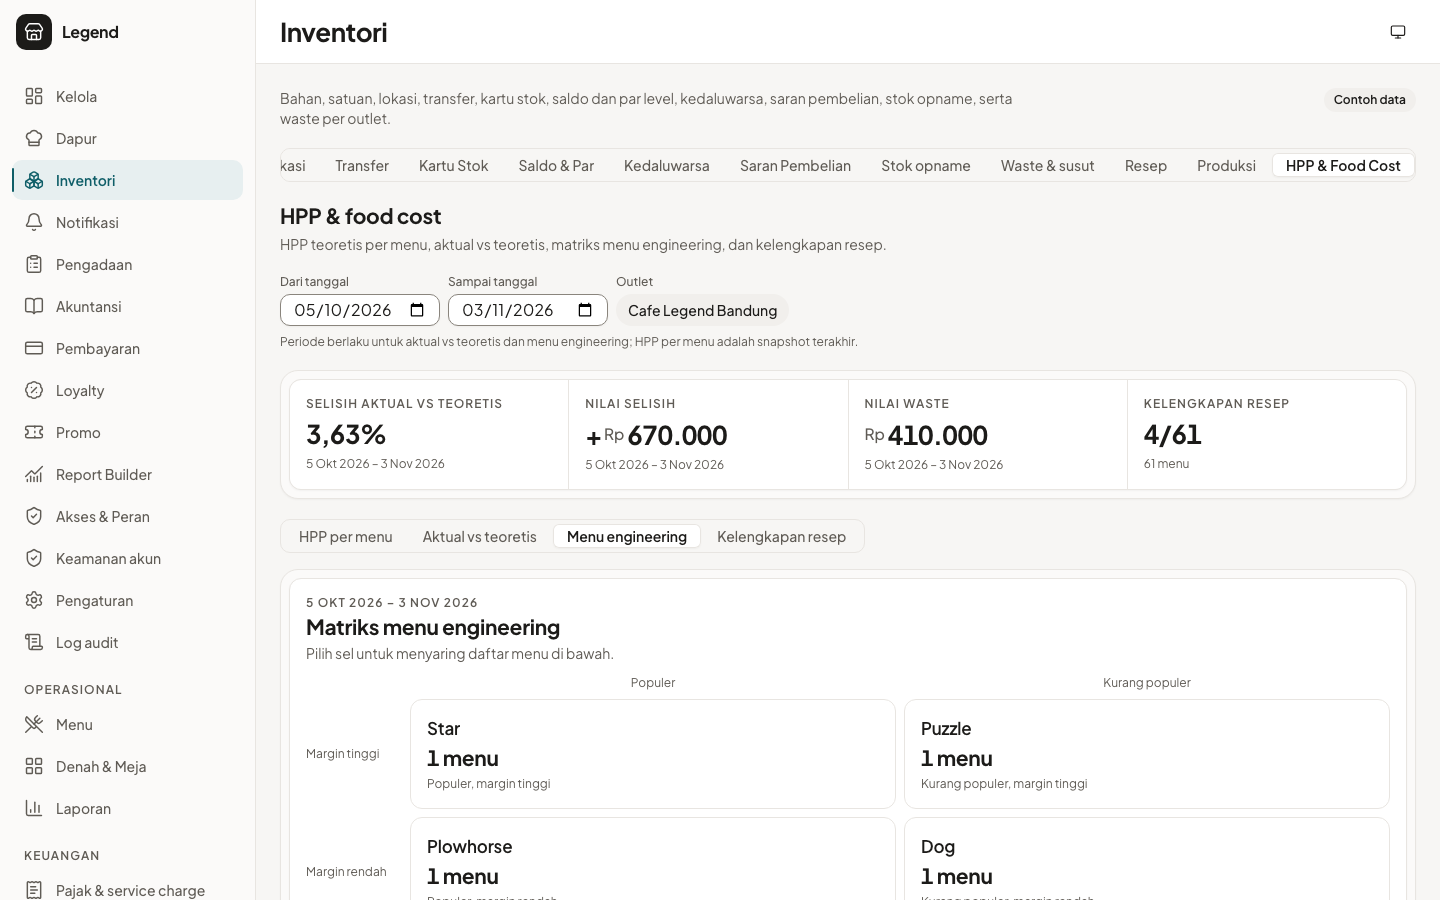
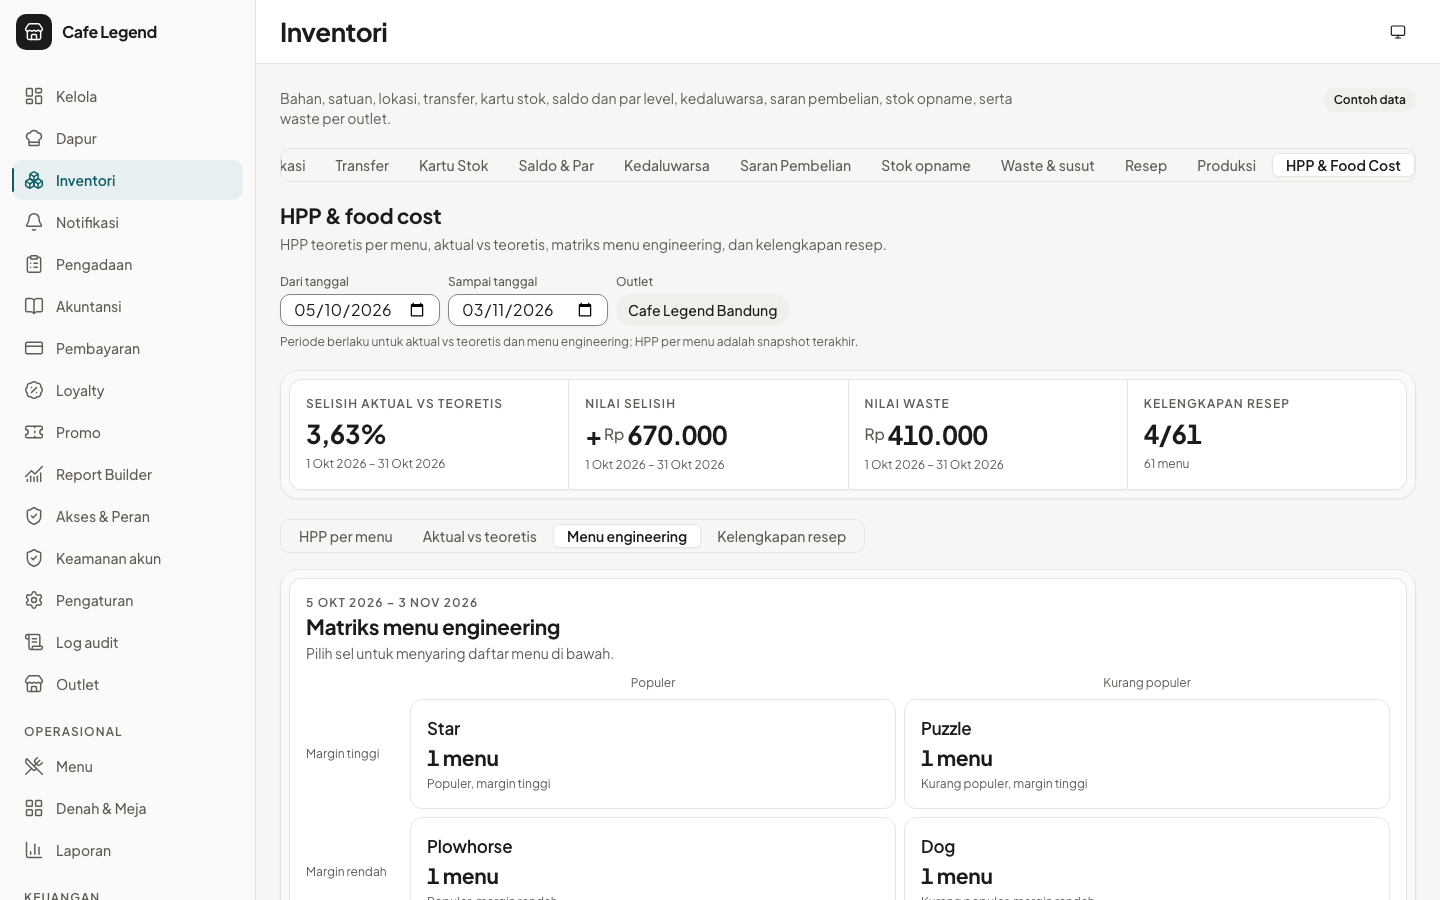
review(inventory): HPP summary dates, chart values, ink matrix selection (legend-5pe)

diff --git a/apps/web/src/features/ws06-inventory/components/hpp-food-cost-tab.tsx b/apps/web/src/features/ws06-inventory/components/hpp-food-cost-tab.tsx
@@ -23,7 +23,8 @@ import {
   TableRow,
 } from "@/components/ui/table";
 import { useFoodCost } from "../hpp-hooks";
-import { periodLabel, type HppPeriod } from "../hpp-lib";
+import { formatRupiah } from "@starter/shared/i18n";
+import { foodCostPeriodLabel, sortFoodCost, type HppPeriod } from "../hpp-lib";
 import { FoodCostChart, type FoodCostBar } from "./hpp-food-cost-chart";
 import { SignedMoney } from "./hpp-signed-money";
 
@@ -32,12 +33,7 @@ export function HppFoodCostTab({ period }: { period: HppPeriod }) {
   const query = useFoodCost(period);
 
   const rows = React.useMemo(
-    () =>
-      [...(query.data?.data ?? [])].sort(
-        (a, b) =>
-          b.fromDate.localeCompare(a.fromDate) ||
-          b.toDate.localeCompare(a.toDate),
-      ),
+    () => sortFoodCost(query.data?.data ?? []),
     [query.data],
   );
 
@@ -66,9 +62,7 @@ export function HppFoodCostTab({ period }: { period: HppPeriod }) {
   }
 
   const latest = rows[0];
-  const latestPeriod = latest
-    ? periodLabel({ fromDate: latest.fromDate, toDate: latest.toDate })
-    : periodLabel(period);
+  const latestPeriod = latest ? foodCostPeriodLabel(latest) : "";
   const bars: FoodCostBar[] = latest
     ? [
         {
@@ -103,6 +97,10 @@ export function HppFoodCostTab({ period }: { period: HppPeriod }) {
             bars={bars}
             ariaLabel={t("inventoryHpp.foodCost.chartAria", {
               period: latestPeriod,
+              theoretical: latest
+                ? formatRupiah(latest.theoreticalCostIdr)
+                : "",
+              actual: latest ? formatRupiah(latest.actualCostIdr) : "",
             })}
           />
         </CardShellBody>
@@ -143,10 +141,7 @@ export function HppFoodCostTab({ period }: { period: HppPeriod }) {
             {rows.map((row) => (
               <TableRow key={`${row.outletId}:${row.fromDate}:${row.toDate}`}>
                 <TableCell className="whitespace-nowrap font-medium">
-                  {periodLabel({
-                    fromDate: row.fromDate,
-                    toDate: row.toDate,
-                  })}
+                  {foodCostPeriodLabel(row)}
                 </TableCell>
                 <TableCell numeric>
                   <Money amount={row.theoreticalCostIdr} />

diff --git a/apps/web/src/features/ws06-inventory/hpp-lib.ts b/apps/web/src/features/ws06-inventory/hpp-lib.ts
@@ -17,6 +17,7 @@ import {
 import { formatNumber } from "@starter/shared/i18n";
 import { cafeLegendMenuFixtures } from "@starter/shared/menu";
 import type {
+  FoodCostComparison,
   MenuCost,
   MenuEngineeringClass,
   MenuEngineeringRow,
@@ -129,6 +130,30 @@ export function sortRecipeCoverage(
   return [...rows].sort((a, b) =>
     menuNameOf(a.menuItemId).localeCompare(menuNameOf(b.menuItemId), "id-ID"),
   );
+}
+
+// ---- Food cost -----------------------------------------------------------
+
+/**
+ * Food-cost comparisons newest first (by start, then end date). The summary
+ * strip and the chart both read the first row, so they always agree.
+ */
+export function sortFoodCost(
+  rows: readonly FoodCostComparison[],
+): FoodCostComparison[] {
+  return [...rows].sort(
+    (a, b) =>
+      b.fromDate.localeCompare(a.fromDate) || b.toDate.localeCompare(a.toDate),
+  );
+}
+
+/**
+ * The label for a comparison row's own period. A row covers the closed range
+ * the server computed, which may differ from the selector window that merely
+ * overlaps it, so figures are always labelled with the row's dates.
+ */
+export function foodCostPeriodLabel(row: FoodCostComparison): string {
+  return periodLabel({ fromDate: row.fromDate, toDate: row.toDate });
 }
 
 // ---- Menu engineering ----------------------------------------------------

diff --git a/apps/web/src/features/ws06-inventory/components/hpp-page.tsx b/apps/web/src/features/ws06-inventory/components/hpp-page.tsx
@@ -22,9 +22,10 @@ import { useFoodCost, useOnlineStatus, useRecipeCoverage } from "../hpp-hooks";
 import {
   coverageCounts,
   defaultPeriod,
+  foodCostPeriodLabel,
   formatBasisPoints,
   HPP_OUTLET_NAME,
-  periodLabel,
+  sortFoodCost,
   type HppPeriod,
 } from "../hpp-lib";
 import { HppCoverageTab } from "./hpp-coverage-tab";
@@ -184,10 +185,12 @@ function HppSummary({
   const failed = foodCost.isError || coverage.isError;
   const error = foodCost.error ?? coverage.error;
   const offline = error instanceof ApiError && error.code === "NETWORK_ERROR";
-  const row = foodCost.data?.data.at(0);
+  // Newest comparison, labelled with its own dates: the selector window only
+  // has to overlap the server's period, so its dates are not the figures'.
+  const row = sortFoodCost(foodCost.data?.data ?? []).at(0);
   const coverageRows = coverage.data?.data ?? [];
   const counts = coverageCounts(coverageRows);
-  const label = periodLabel(period);
+  const label = row ? foodCostPeriodLabel(row) : "";
 
   const retry = () => {
     void foodCost.refetch();

diff --git a/apps/web/src/features/ws06-inventory/components/hpp-engineering-tab.tsx b/apps/web/src/features/ws06-inventory/components/hpp-engineering-tab.tsx
@@ -265,13 +265,15 @@ function MatrixCell({
 }) {
   const t = useT();
   return (
+    // A matrix cell is a filter, so it selects in ink, never accent
+    // (DESIGN.md §2 accent budget: tabs and filters select in ink).
     <button
       type="button"
       aria-pressed={selected}
       onClick={() => onSelect(value)}
       className={
         selected
-          ? "grid min-w-0 gap-1 rounded-container border-(length:--border-w) border-primary bg-primary-tint p-3 text-left transition-colors duration-(--duration-fast) sm:p-card"
+          ? "grid min-w-0 gap-1 rounded-container border-(length:--border-w) border-foreground bg-surface-2 p-3 text-left ring-1 ring-foreground transition-colors duration-(--duration-fast) sm:p-card"
           : "grid min-w-0 gap-1 rounded-container border-(length:--border-w) border-border bg-card p-3 text-left transition-colors duration-(--duration-fast) hover:bg-surface-2 sm:p-card"
       }
     >

diff --git a/e2e/legend-5pe.mock.spec.ts b/e2e/legend-5pe.mock.spec.ts
@@ -103,11 +103,19 @@ test("F17 actual vs theoretical food cost explains the variance in a chart and a
 }) => {
   await open(page, "/kelola/inventori/hpp");
   await expect(page.getByText("3,63%", { exact: true })).toBeVisible();
+  // The summary labels its figures with the comparison's own dates, not the
+  // 30-day selector window that merely overlaps them.
+  await expect(
+    page
+      .getByRole("region", { name: "Ringkasan food cost periode ini" })
+      .getByText("1 Okt 2026 – 31 Okt 2026")
+      .first(),
+  ).toBeVisible();
 
   await openTab(page, "Aktual vs teoretis");
   await expect(
     page.getByRole("img", {
-      name: /Grafik batang food cost teoretis dan aktual/,
+      name: /Grafik batang food cost periode 1 Okt 2026 – 31 Okt 2026: teoretis Rp\s18\.450\.000, aktual Rp\s19\.120\.000/,
     }),
   ).toBeVisible();
 

diff --git a/packages/shared/src/i18n/messages/ws06-hpp.ts b/packages/shared/src/i18n/messages/ws06-hpp.ts
@@ -67,7 +67,8 @@ export const inventoryHppMessages = {
     chartTitle: "Teoretis vs aktual",
     chartHint:
       "Batang aktual disorot; batang teoretis menjadi pembanding. Tabel di bawah memuat angka yang sama.",
-    chartAria: "Grafik batang food cost teoretis dan aktual periode {period}",
+    chartAria:
+      "Grafik batang food cost periode {period}: teoretis {theoretical}, aktual {actual}",
     legend: {
       theoretical: "Teoretis",
       actual: "Aktual",
